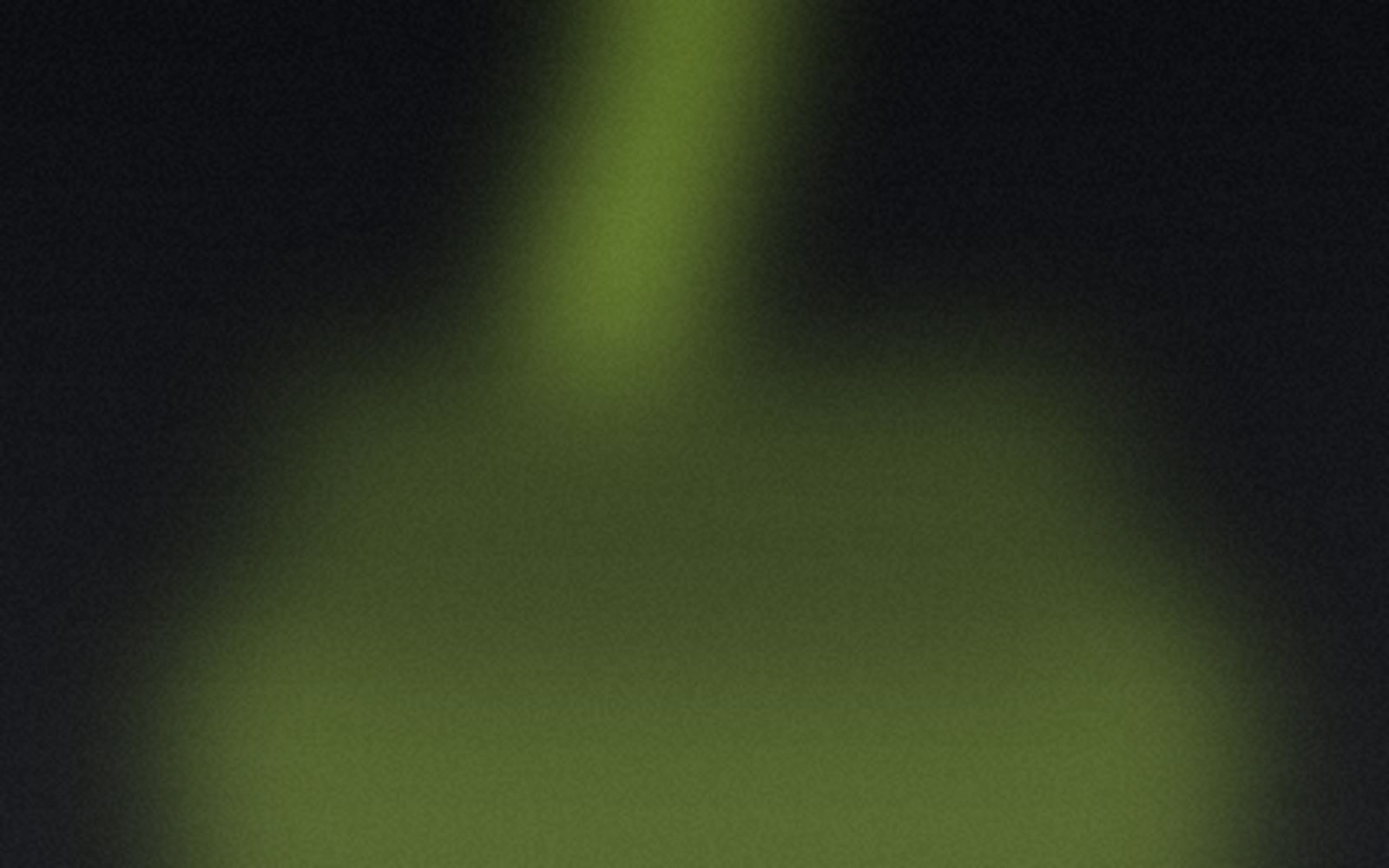
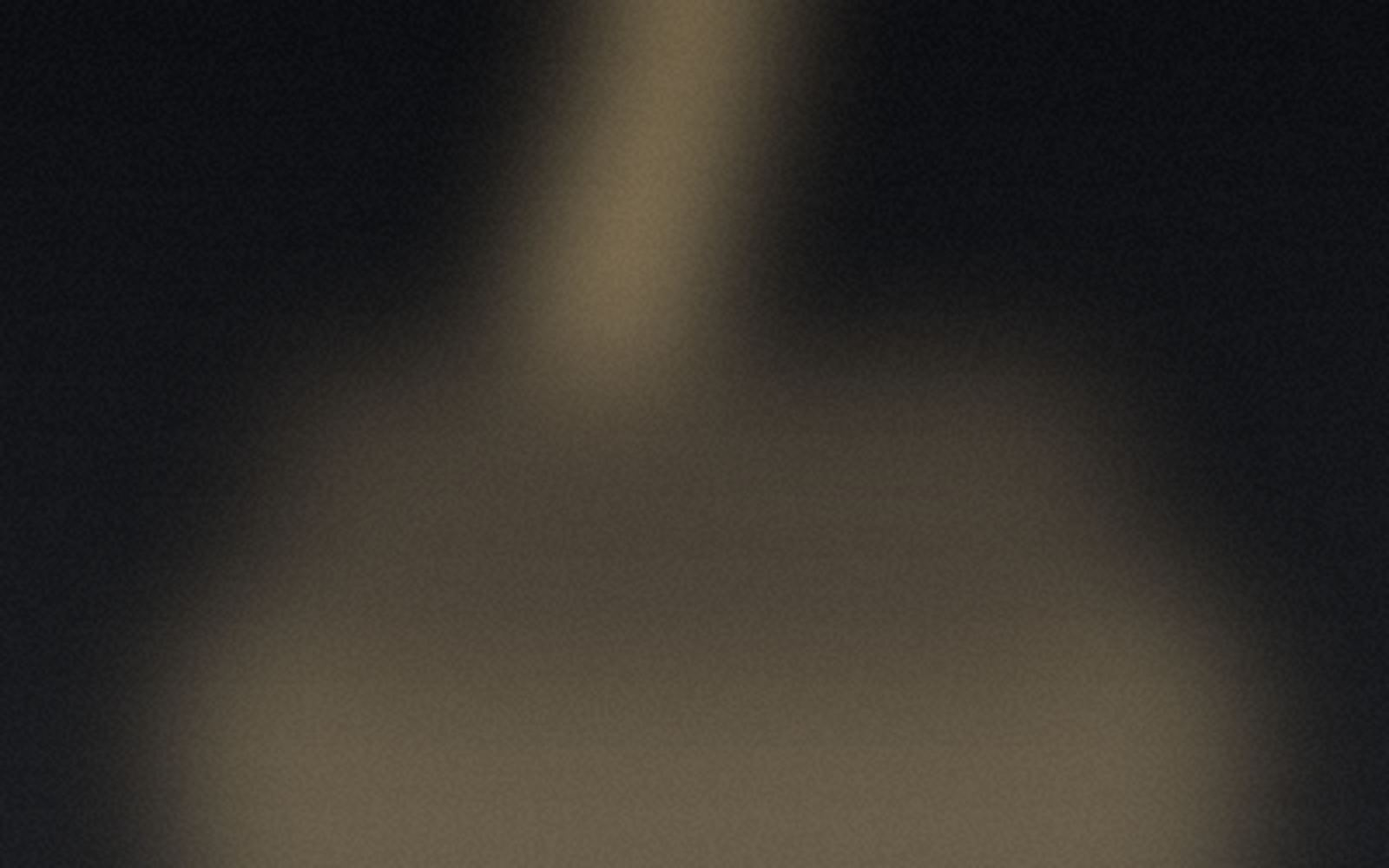
Restyle detailing template to reference: cream accent, tiles, service tabs, directions
Claude-Session: https://claude.ai/code/session_01J8HoVSwYCBGA3dxqFk3hvR

Changed region(s): [[0.1875, 0.806, 0.8438, 1.0], [0.375, 0.0, 0.5625, 0.434]]

diff --git a/projects/detailing/src/components/Booking.tsx b/projects/detailing/src/components/Booking.tsx
@@ -6,12 +6,13 @@ import { cn } from "@/lib/utils";
 import { button, Heading, Section } from "./ui";
 import { phoneOk, sendLead } from "@/lib/lead";
 
-const field = "h-12 w-full rounded-xl border border-white/15 bg-surface px-4 text-base placeholder:text-muted/70 focus:border-accent focus:outline-none";
+const field = "h-12 w-full rounded-2xl border border-white/10 bg-surface-2 px-4 text-base placeholder:text-muted/70 focus:border-accent focus:outline-none";
 
 export function Booking() {
   const [f, setF] = useState({ name: "", phone: "", service: "", car: "" });
   const [state, setState] = useState<"idle" | "busy" | "done" | "error">("idle");
   const [err, setErr] = useState("");
+  const [dir, setDir] = useState(0);
 
   useEffect(() => {
     const on = (e: Event) => {
@@ -37,7 +38,7 @@ export function Booking() {
     <Section id="booking">
       <div className="grid gap-8 lg:grid-cols-2 lg:gap-12">
         <div className="rounded-[var(--radius-card)] border border-line bg-surface p-6 md:p-10">
-          <Heading kicker="Запись" title="Запишитесь на удобное время" text="Перезвоним в течение 10 минут и подберём время." className="mb-8 md:mb-8" />
+          <Heading title="Запишитесь на удобное время" text="Перезвоним в течение 10 минут и подберём время." className="mb-8 md:mb-8" />
           {state === "done" ? (
             <p role="status" className="flex items-start gap-3 rounded-2xl border border-accent/40 bg-accent/10 p-5">
               <Check className="mt-0.5 shrink-0 text-accent" aria-hidden /> Заявка принята. Мы перезвоним в течение 10 минут.
@@ -75,14 +76,23 @@ export function Booking() {
           )}
         </div>
 
-        <div id="contacts" className="flex flex-col justify-between gap-8 rounded-[var(--radius-card)] border border-line bg-gradient-to-br from-surface-2 to-surface p-6 md:p-10">
+        <div id="contacts" className="flex flex-col justify-between gap-8 rounded-[var(--radius-card)] border border-line bg-surface p-6 md:p-10">
           <div>
-            <p className="mb-3 text-sm font-semibold tracking-wide text-accent uppercase">Контакты</p>
+            <p className="mb-3 text-lg font-semibold text-muted">Контакты</p>
             <a href={`tel:${site.phoneHref}`} className="font-display text-2xl font-semibold hover:text-accent md:text-4xl">{site.phone}</a>
             <ul className="mt-8 space-y-5 text-[15px]">
               <li className="flex gap-3"><MapPin className="mt-0.5 shrink-0 text-accent" size={20} aria-hidden /><span>{site.address}<br /><a href={site.mapUrl} target="_blank" rel="noopener" className="text-muted underline underline-offset-4 hover:text-fg">Построить маршрут</a></span></li>
               <li className="flex gap-3"><Clock className="mt-0.5 shrink-0 text-accent" size={20} aria-hidden />{site.hours}</li>
             </ul>
+          </div>
+          <div>
+            <p className="mb-3 text-lg font-semibold">Как добраться</p>
+            <div role="tablist" aria-label="Как добраться" className="mb-3 grid grid-cols-2 gap-3">
+              {site.directions.map((d, i) => (
+                <button key={d.tab} role="tab" aria-selected={dir === i} onClick={() => setDir(i)} className={cn("h-12 rounded-2xl text-[15px] font-medium transition", dir === i ? "bg-accent text-accent-ink" : "bg-surface-2 hover:bg-white/10")}>{d.tab}</button>
+              ))}
+            </div>
+            <p role="tabpanel" className="text-[15px] leading-relaxed text-muted">{site.directions[dir].text}</p>
           </div>
           <div className="flex flex-col gap-3 sm:flex-row">
             <a href={`tel:${site.phoneHref}`} className={cn(button({ size: "lg" }), "flex-1")}><Phone size={18} aria-hidden /> Позвонить</a>

diff --git a/projects/detailing/src/site.config.ts b/projects/detailing/src/site.config.ts
@@ -6,6 +6,7 @@
 
 export type Service = {
   slug: string;
+  cat: string;
   title: string;
   text: string;
   from: number; // цена "от", ₽
@@ -46,13 +47,21 @@ export const site = {
 
   // --- Услуги ---
   services: [
-    { slug: "wash", title: "Мойка и уход", text: "Бесконтактная мойка, чистка дисков и стёкол, обработка пластика.", from: 2500, image: "/images/service-wash.jpg" },
-    { slug: "polish", title: "Полировка кузова", text: "Убираем царапины и потёртости, возвращаем глубину цвета.", from: 12000, image: "/images/service-polish.jpg" },
-    { slug: "ceramic", title: "Керамическое покрытие", text: "Защита краски на 2 до 5 лет. Грязь и вода стекают сами.", from: 35000, image: "/images/service-ceramic.jpg" },
-    { slug: "interior", title: "Химчистка салона", text: "Чистим сиденья, потолок, ковры и кожу. Убираем запахи.", from: 9000, image: "/images/service-interior.jpg" },
-    { slug: "film", title: "Защитная плёнка", text: "Оклеиваем капот, бампер и пороги. Сколы больше не страшны.", from: 45000, image: "/images/service-film.jpg" },
-    { slug: "presale", title: "Подготовка к продаже", text: "Мойка, полировка и чистка салона. Автомобиль продаётся быстрее и дороже.", from: 15000, image: "/images/service-presale.jpg" },
+    { slug: "wash", cat: "Кузов", title: "Мойка и уход", text: "Бесконтактная мойка, чистка дисков и стёкол, обработка пластика.", from: 2500, image: "/images/service-wash.jpg" },
+    { slug: "polish", cat: "Кузов", title: "Полировка кузова", text: "Убираем царапины и потёртости, возвращаем глубину цвета.", from: 12000, image: "/images/service-polish.jpg" },
+    { slug: "ceramic", cat: "Защита", title: "Керамическое покрытие", text: "Защита краски на 2 до 5 лет. Грязь и вода стекают сами.", from: 35000, image: "/images/service-ceramic.jpg" },
+    { slug: "interior", cat: "Салон", title: "Химчистка салона", text: "Чистим сиденья, потолок, ковры и кожу. Убираем запахи.", from: 9000, image: "/images/service-interior.jpg" },
+    { slug: "film", cat: "Защита", title: "Защитная плёнка", text: "Оклеиваем капот, бампер и пороги. Сколы больше не страшны.", from: 45000, image: "/images/service-film.jpg" },
+    { slug: "presale", cat: "Комплекс", title: "Подготовка к продаже", text: "Мойка, полировка и чистка салона. Автомобиль продаётся быстрее и дороже.", from: 15000, image: "/images/service-presale.jpg" },
   ] satisfies Service[],
+
+  serviceCats: ["Все", "Кузов", "Салон", "Защита", "Комплекс"],
+
+  // --- Как добраться ---
+  directions: [
+    { tab: "От метро", text: "Станция «Примерная», выход 2. Дальше 7 минут пешком вдоль парка, вход со двора, вывеска над боксами." },
+    { tab: "На машине", text: "Заезд с улицы Примерной, шлагбаум откроем по звонку. Бесплатная парковка на 10 мест у входа." },
+  ],
 
   // --- Цены по классу автомобиля ---
   carClasses: ["Седан", "Кроссовер", "Внедорожник"],

diff --git a/projects/detailing/src/components/Services.tsx b/projects/detailing/src/components/Services.tsx
@@ -1,30 +1,39 @@
+"use client";
+import { useState } from "react";
 import Image from "next/image";
-import { ArrowUpRight } from "lucide-react";
 import { site } from "@/site.config";
-import { rub } from "@/lib/utils";
-import { Heading, Section } from "./ui";
+import { cn, rub } from "@/lib/utils";
+import { Heading, Section, button } from "./ui";
 import { BookLink } from "./BookLink";
 
 export function Services() {
+  const [cat, setCat] = useState("Все");
+  const list = site.services.filter((s) => cat === "Все" || s.cat === cat);
   return (
     <Section id="services">
-      <Heading kicker="Услуги" title="Что мы делаем" text="Шесть основных услуг. Нужно что-то другое, позвоните, мы подберём решение." />
-      <ul className="grid gap-5 sm:grid-cols-2 lg:grid-cols-3">
-        {site.services.map((s) => (
-          <li key={s.slug}>
-            <BookLink slug={s.slug} className="group block h-full overflow-hidden rounded-[var(--radius-card)] border border-line bg-surface transition duration-300 hover:-translate-y-0.5 hover:border-white/20">
-              <div className="relative aspect-[4/3] overflow-hidden">
-                <Image src={s.image} alt={s.title} fill sizes="(min-width:1024px) 380px, (min-width:640px) 50vw, 100vw" className="object-cover transition duration-500 group-hover:scale-[1.03]" />
-              </div>
-              <div className="p-6">
-                <h3 className="text-xl">{s.title}</h3>
-                <p className="mt-2 text-[15px] text-muted">{s.text}</p>
-                <div className="mt-5 flex items-center justify-between">
-                  <span className="font-display text-lg text-accent">от {rub(s.from)}</span>
-                  <span className="inline-flex items-center gap-1 text-sm text-fg/80 group-hover:text-fg">Записаться <ArrowUpRight size={16} aria-hidden /></span>
-                </div>
-              </div>
-            </BookLink>
+      <Heading title="Услуги" text="Выберите направление. Нужно что-то другое, позвоните, мы подберём решение." />
+      <div role="tablist" aria-label="Направление" className="-mx-5 mb-8 flex gap-3 overflow-x-auto px-5 pb-2 md:mx-0 md:px-0 [scrollbar-width:none]">
+        {site.serviceCats.map((c) => (
+          <button
+            key={c} role="tab" aria-selected={cat === c} onClick={() => setCat(c)}
+            className={cn("h-14 shrink-0 rounded-2xl px-7 text-base font-medium transition", cat === c ? "bg-accent text-accent-ink" : "bg-surface-2 text-fg hover:bg-white/10")}
+          >
+            {c}
+          </button>
+        ))}
+      </div>
+      <ul className="grid gap-5 md:grid-cols-2 lg:grid-cols-3">
+        {list.map((s) => (
+          <li key={s.slug} className="flex flex-col rounded-[var(--radius-card)] border border-line bg-surface p-3 transition duration-300 hover:-translate-y-0.5 hover:border-white/20 md:p-4">
+            <div className="group relative aspect-[4/3] overflow-hidden rounded-2xl">
+              <Image src={s.image} alt={s.title} fill sizes="(min-width:1024px) 370px, (min-width:768px) 50vw, 100vw" className="object-cover transition duration-500 group-hover:scale-[1.03]" />
+            </div>
+            <div className="flex flex-1 flex-col px-2 pt-6 pb-3">
+              <h3 className="text-xl">{s.title}</h3>
+              <p className="mt-3 flex-1 text-[15px] text-muted">{s.text}</p>
+              <p className="mt-6 font-display text-lg">от {rub(s.from)}</p>
+              <BookLink slug={s.slug} className={cn(button({ variant: "ghost" }), "mt-4 w-full")}>Записаться</BookLink>
+            </div>
           </li>
         ))}
       </ul>

diff --git a/projects/detailing/src/components/Header.tsx b/projects/detailing/src/components/Header.tsx
@@ -17,21 +17,20 @@ const nav = [
 export function Header() {
   const [open, setOpen] = useState(false);
   return (
-    <header className="fixed inset-x-0 top-0 z-50 border-b border-line bg-bg/80 backdrop-blur-xl">
-      <div className="mx-auto flex h-[68px] max-w-[1200px] items-center justify-between gap-4 px-5 md:px-8">
-        <a href="#top" className="flex items-baseline gap-2" aria-label={`${site.name}, на главную`}>
+    <header className="fixed inset-x-0 top-0 z-50">
+      <div className="mx-auto flex h-[84px] max-w-[1200px] items-center justify-between gap-3 px-5 md:px-8">
+        <a href="#top" className="flex h-14 items-center gap-3 rounded-2xl bg-surface-2/90 px-5 backdrop-blur-xl" aria-label={`${site.name}, на главную`}>
           <span className="font-display text-xl font-bold tracking-tight">{site.name}</span>
           <span className="hidden text-xs text-muted uppercase tracking-widest sm:inline">{site.tagline}</span>
         </a>
-        <nav aria-label="Основная" className="hidden items-center gap-7 lg:flex">
+        <nav aria-label="Основная" className="hidden h-14 items-center gap-7 rounded-2xl bg-surface-2/90 px-7 backdrop-blur-xl lg:flex">
           {nav.map(([l, h]) => (
             <a key={h} href={h} className="text-[15px] text-muted transition hover:text-fg">{l}</a>
           ))}
         </nav>
         <div className="flex items-center gap-3">
-          <a href={`tel:${site.phoneHref}`} className="hidden text-[15px] font-semibold hover:text-accent md:block">{site.phone}</a>
-          <a href="#booking" className={cn(button({ size: "md" }), "hidden sm:inline-flex")}>Записаться</a>
-          <a href={`tel:${site.phoneHref}`} aria-label="Позвонить" className={cn(button({ variant: "primary" }), "h-11 w-11 !p-0 md:hidden")}>
+          <a href={`tel:${site.phoneHref}`} className="hidden h-14 items-center rounded-2xl bg-surface-2/90 px-5 text-[15px] font-semibold backdrop-blur-xl hover:text-accent md:flex">{site.phone}</a>
+          <a href={`tel:${site.phoneHref}`} aria-label="Позвонить" className={cn(button({ variant: "primary" }), "h-14 w-14 !p-0")}>
             <Phone size={18} aria-hidden />
           </a>
           <button
@@ -40,7 +39,7 @@ export function Header() {
             aria-expanded={open}
             aria-controls="mobile-menu"
             onClick={() => setOpen((v) => !v)}
-            className="grid h-11 w-11 place-items-center rounded-full border border-white/15 lg:hidden"
+            className="grid h-14 w-14 place-items-center rounded-2xl bg-surface-2/90 backdrop-blur-xl lg:hidden"
           >
             {open ? <X size={20} /> : <Menu size={20} />}
           </button>
@@ -55,7 +54,7 @@ export function Header() {
             animate={{ opacity: 1, y: 0 }}
             exit={{ opacity: 0, y: -8 }}
             transition={{ duration: 0.2 }}
-            className="border-t border-line bg-bg px-5 pb-6 pt-2 lg:hidden"
+            className="mx-5 mt-1 rounded-3xl border border-line bg-surface/95 px-5 pb-5 pt-2 backdrop-blur-xl lg:hidden"
           >
             {nav.map(([l, h]) => (
               <a key={h} href={h} onClick={() => setOpen(false)} className="flex h-14 items-center border-b border-line text-lg">{l}</a>

diff --git a/projects/detailing/src/components/Hero.tsx b/projects/detailing/src/components/Hero.tsx
@@ -1,10 +1,8 @@
 "use client";
 import Image from "next/image";
 import { motion } from "motion/react";
-import { Phone, Star, ShieldCheck, Clock, Award } from "lucide-react";
+import { Star, ShieldCheck, Clock, Award } from "lucide-react";
 import { site } from "@/site.config";
-import { button } from "./ui";
-import { cn } from "@/lib/utils";
 import { CallbackForm } from "./CallbackForm";
 
 const icons = [Clock, Star, Star, ShieldCheck];
@@ -16,24 +14,19 @@ const rise = (i: number) => ({
 
 export function Hero() {
   return (
-    <section id="top" className="relative isolate min-h-[100svh] overflow-hidden pt-[68px]">
+    <section id="top" className="relative isolate min-h-[100svh] overflow-hidden pt-[84px]">
       <Image src="/images/hero.jpg" alt="Автомобиль после детейлинга" fill priority sizes="100vw" className="-z-20 object-cover object-[70%_center]" />
-      <div className="absolute inset-0 -z-10 bg-gradient-to-r from-bg via-bg/80 to-bg/10 max-md:bg-gradient-to-b max-md:from-bg/70 max-md:via-bg/85 max-md:to-bg" />
+      <div className="absolute inset-0 -z-10 bg-gradient-to-r from-bg/90 via-bg/50 to-transparent max-md:bg-gradient-to-t max-md:from-bg max-md:via-bg/60 max-md:to-bg/20" />
       <div className="absolute inset-x-0 bottom-0 -z-10 h-40 bg-gradient-to-t from-bg to-transparent" />
 
-      <div className="mx-auto flex min-h-[calc(100svh-68px)] max-w-[1200px] flex-col justify-center gap-10 px-5 py-10 md:px-8">
+      <div className="mx-auto flex min-h-[calc(100svh-84px)] max-w-[1200px] flex-col justify-end gap-8 px-5 py-10 md:px-8">
         <div className="max-w-[680px]">
-          <motion.p {...rise(0)} className="mb-5 inline-flex items-center gap-2 rounded-full border border-line bg-white/5 px-4 py-1.5 text-sm text-muted">
+          <motion.p {...rise(0)} className="mb-5 inline-flex items-center gap-2 rounded-xl border border-line bg-white/5 px-4 py-2 text-sm text-muted">
             <Award size={16} className="text-accent" aria-hidden /> {site.city}, рейтинг 4,9 на картах
           </motion.p>
-          <motion.h1 {...rise(1)} className="text-[30px] leading-[1.1] sm:text-[40px] md:text-[46px]">{site.hero.title}</motion.h1>
+          <motion.h1 {...rise(1)} className="text-[28px] uppercase leading-[1.1] sm:text-[38px] md:text-[48px]">{site.hero.title}</motion.h1>
           <motion.p {...rise(2)} className="mt-5 max-w-[520px] text-lg text-fg/75">{site.hero.lead}</motion.p>
-          <motion.div {...rise(3)} className="mt-7 flex flex-col gap-3 sm:flex-row">
-            <a href={`tel:${site.phoneHref}`} className={cn(button({ variant: "ghost", size: "lg" }), "max-md:hidden")}>
-              <Phone size={18} aria-hidden /> {site.phone}
-            </a>
-          </motion.div>
-          <motion.div {...rise(4)} className="mt-5 max-w-[520px]">
+          <motion.div {...rise(4)} className="mt-7 max-w-[520px]">
             <CallbackForm />
           </motion.div>
         </div>

diff --git a/projects/detailing/src/components/ui.tsx b/projects/detailing/src/components/ui.tsx
@@ -3,12 +3,12 @@ import { cn } from "@/lib/utils";
 
 // Кнопка в стиле shadcn: один набор вариантов на весь сайт
 export const button = cva(
-  "inline-flex items-center justify-center gap-2 rounded-full font-semibold whitespace-nowrap transition duration-200 active:scale-[0.97] cursor-pointer disabled:opacity-60 disabled:cursor-not-allowed",
+  "inline-flex items-center justify-center gap-2 rounded-2xl font-semibold whitespace-nowrap transition duration-200 active:scale-[0.97] cursor-pointer disabled:opacity-60 disabled:cursor-not-allowed",
   {
     variants: {
       variant: {
-        primary: "bg-accent text-accent-ink hover:brightness-110 hover:-translate-y-0.5 shadow-[0_8px_30px_-8px_rgb(200_255_61/0.55)]",
-        ghost: "border border-white/15 text-fg hover:bg-white/8 hover:border-white/30",
+        primary: "bg-accent text-accent-ink hover:brightness-110 hover:-translate-y-0.5 shadow-[0_8px_30px_-10px_rgb(255_224_163/0.5)]",
+        ghost: "border border-white/10 bg-surface-2 text-fg hover:bg-white/10 hover:border-white/30",
       },
       size: { md: "h-12 px-6 text-[15px]", lg: "h-14 px-8 text-base" },
     },
@@ -25,12 +25,16 @@ export function Section({ id, className, children }: { id?: string; className?: 
   );
 }
 
-export function Heading({ kicker, title, text, className }: { kicker: string; title: string; text?: string; className?: string }) {
+export function Heading({ title, text, className }: { kicker?: string; title: string; text?: string; className?: string }) {
   return (
-    <div className={cn("mb-10 max-w-2xl md:mb-14", className)}>
-      <p className="mb-3 text-sm font-semibold tracking-wide text-accent uppercase">{kicker}</p>
-      <h2 className="text-[28px] md:text-[40px]">{title}</h2>
-      {text && <p className="mt-4 text-lg text-muted">{text}</p>}
+    <div className={cn("mb-8 max-w-2xl md:mb-12", className)}>
+      <div className="flex items-center gap-4">
+        <svg width="28" height="28" viewBox="0 0 28 28" fill="none" aria-hidden className="shrink-0 text-muted">
+          <path d="M5 5l18 18M23 5L5 23" stroke="currentColor" strokeWidth="2" strokeLinecap="round" />
+        </svg>
+        <h2 className="text-[26px] md:text-[38px]">{title}</h2>
+      </div>
+      {text && <p className="mt-4 text-lg text-muted md:pl-11">{text}</p>}
     </div>
   );
 }

diff --git a/projects/detailing/src/components/BeforeAfter.tsx b/projects/detailing/src/components/BeforeAfter.tsx
@@ -12,7 +12,7 @@ export function BeforeAfter() {
     <Section id="works">
       <div className="grid items-center gap-10 lg:grid-cols-[1fr_1.5fr] lg:gap-14">
         <div>
-          <Heading kicker="Работы" title={ba.title} text={ba.text} className="mb-8 md:mb-8" />
+          <Heading title={ba.title} text={ba.text} className="mb-8 md:mb-8" />
           <ul className="mb-8 space-y-3">
             {ba.facts.map((f) => (
               <li key={f} className="flex gap-3 text-[15px]">
@@ -28,8 +28,8 @@ export function BeforeAfter() {
           <div className="absolute inset-0" style={{ clipPath: `inset(0 ${100 - pos}% 0 0)` }}>
             <Image src="/images/before.jpg" alt="Автомобиль до работы" fill sizes="(min-width:1024px) 700px, 100vw" className="object-cover" />
           </div>
-          <span className="absolute left-4 top-4 rounded-full bg-bg/80 px-3 py-1 text-xs font-semibold backdrop-blur">До</span>
-          <span className="absolute right-4 top-4 rounded-full bg-accent px-3 py-1 text-xs font-semibold text-accent-ink">После</span>
+          <span className="absolute left-4 top-4 rounded-lg bg-bg/80 px-3 py-1 text-xs font-semibold backdrop-blur">До</span>
+          <span className="absolute right-4 top-4 rounded-lg bg-accent px-3 py-1 text-xs font-semibold text-accent-ink">После</span>
           <input
             type="range" min={0} max={100} value={pos} onChange={(e) => setPos(+e.target.value)}
             aria-label="Сравнить до и после" className="ba-range absolute inset-0 z-10"

diff --git a/projects/detailing/src/components/Prices.tsx b/projects/detailing/src/components/Prices.tsx
@@ -8,12 +8,12 @@ export function Prices() {
   const [cls, setCls] = useState(0);
   return (
     <Section id="prices" className="bg-surface/50">
-      <Heading kicker="Цены" title="Сколько это стоит" text="Выберите класс автомобиля. Цена указана от. Точную сумму назовём до начала работ." />
-      <div role="tablist" aria-label="Класс автомобиля" className="mb-6 inline-flex w-full max-w-md rounded-full border border-line bg-bg p-1 sm:w-auto">
+      <Heading title="Сколько это стоит" text="Выберите класс автомобиля. Цена указана от. Точную сумму назовём до начала работ." />
+      <div role="tablist" aria-label="Класс автомобиля" className="mb-6 flex gap-3 overflow-x-auto [scrollbar-width:none]">
         {site.carClasses.map((c, i) => (
           <button
             key={c} role="tab" aria-selected={cls === i} onClick={() => setCls(i)}
-            className={cn("h-11 flex-1 rounded-full px-4 text-[15px] font-semibold transition sm:flex-none sm:px-6", cls === i ? "bg-accent text-accent-ink" : "text-muted hover:text-fg")}
+            className={cn("h-14 flex-1 rounded-2xl px-6 text-base font-medium transition sm:flex-none sm:px-8", cls === i ? "bg-accent text-accent-ink" : "bg-surface-2 text-fg hover:bg-white/10")}
           >
             {c}
           </button>

diff --git a/projects/detailing/src/components/CallbackForm.tsx b/projects/detailing/src/components/CallbackForm.tsx
@@ -27,13 +27,13 @@ export function CallbackForm() {
     );
 
   return (
-    <form onSubmit={submit} noValidate className="rounded-2xl border border-line bg-bg/60 p-3 backdrop-blur-md">
+    <form onSubmit={submit} noValidate className="rounded-3xl border border-line bg-bg/60 p-3 backdrop-blur-md">
       <label htmlFor="cb-phone" className="mb-2 block px-1 text-sm text-muted">{site.hero.callbackNote}</label>
       <div className="flex flex-col gap-2 sm:flex-row">
         <input
           id="cb-phone" type="tel" inputMode="tel" autoComplete="tel" placeholder="+7 (___) ___-__-__"
           value={phone} onChange={(e) => setPhone(e.target.value)} aria-invalid={!!err} aria-describedby="cb-err"
-          className="h-12 min-w-0 flex-1 rounded-full border border-white/15 bg-surface px-5 text-base placeholder:text-muted/70 focus:border-accent focus:outline-none"
+          className="h-12 min-w-0 flex-1 rounded-2xl border border-white/10 bg-surface-2 px-5 text-base placeholder:text-muted/70 focus:border-accent focus:outline-none"
         />
         <button type="submit" disabled={state === "busy"} className={button({ size: "md" })}>
           {state === "busy" ? <Loader2 className="animate-spin" size={18} aria-hidden /> : null} Перезвоните мне

diff --git a/projects/detailing/src/app/globals.css b/projects/detailing/src/app/globals.css
@@ -3,17 +3,17 @@
 @import "@fontsource-variable/unbounded";
 
 @theme {
-  --color-bg: #0a0b0d;
-  --color-surface: #121418;
-  --color-surface-2: #1a1d22;
+  --color-bg: #0a0a0a;
+  --color-surface: #141414;
+  --color-surface-2: #232323;
   --color-line: rgb(255 255 255 / 0.09);
   --color-fg: #f3f4f6;
-  --color-muted: #9ba1ab;
-  --color-accent: #c8ff3d;
-  --color-accent-ink: #0b0d02;
+  --color-muted: #8f8f8f;
+  --color-accent: #ffe0a3;
+  --color-accent-ink: #1a1408;
   --font-sans: "Manrope Variable", ui-sans-serif, system-ui, sans-serif;
   --font-display: "Unbounded Variable", "Manrope Variable", ui-sans-serif, sans-serif;
-  --radius-card: 20px;
+  --radius-card: 24px;
 }
 
 html { scroll-behavior: smooth; scroll-padding-top: 88px; background: var(--color-bg); }

diff --git a/projects/detailing/src/components/Faq.tsx b/projects/detailing/src/components/Faq.tsx
@@ -6,7 +6,7 @@ export function Faq() {
   return (
     <Section id="faq" className="bg-surface/50">
       <div className="grid gap-10 lg:grid-cols-[1fr_1.6fr]">
-        <Heading kicker="Вопросы" title="Частые вопросы" text="Не нашли ответ? Позвоните, ответим сразу." />
+        <Heading title="Частые вопросы" text="Не нашли ответ? Позвоните, ответим сразу." />
         <div>
           {site.faq.map((f) => (
             <details key={f.q} className="group border-b border-line">

diff --git a/projects/detailing/src/components/Steps.tsx b/projects/detailing/src/components/Steps.tsx
@@ -4,7 +4,7 @@ import { Heading, Section } from "./ui";
 export function Steps() {
   return (
     <Section className="bg-surface/50">
-      <Heading kicker="Как мы работаем" title="Четыре шага от звонка до ключей" />
+      <Heading title="Четыре шага от звонка до ключей" />
       <ol className="grid gap-4 sm:grid-cols-2 lg:grid-cols-4">
         {site.steps.map((s, i) => (
           <li key={s.title} className="rounded-[var(--radius-card)] border border-line bg-bg p-6">
